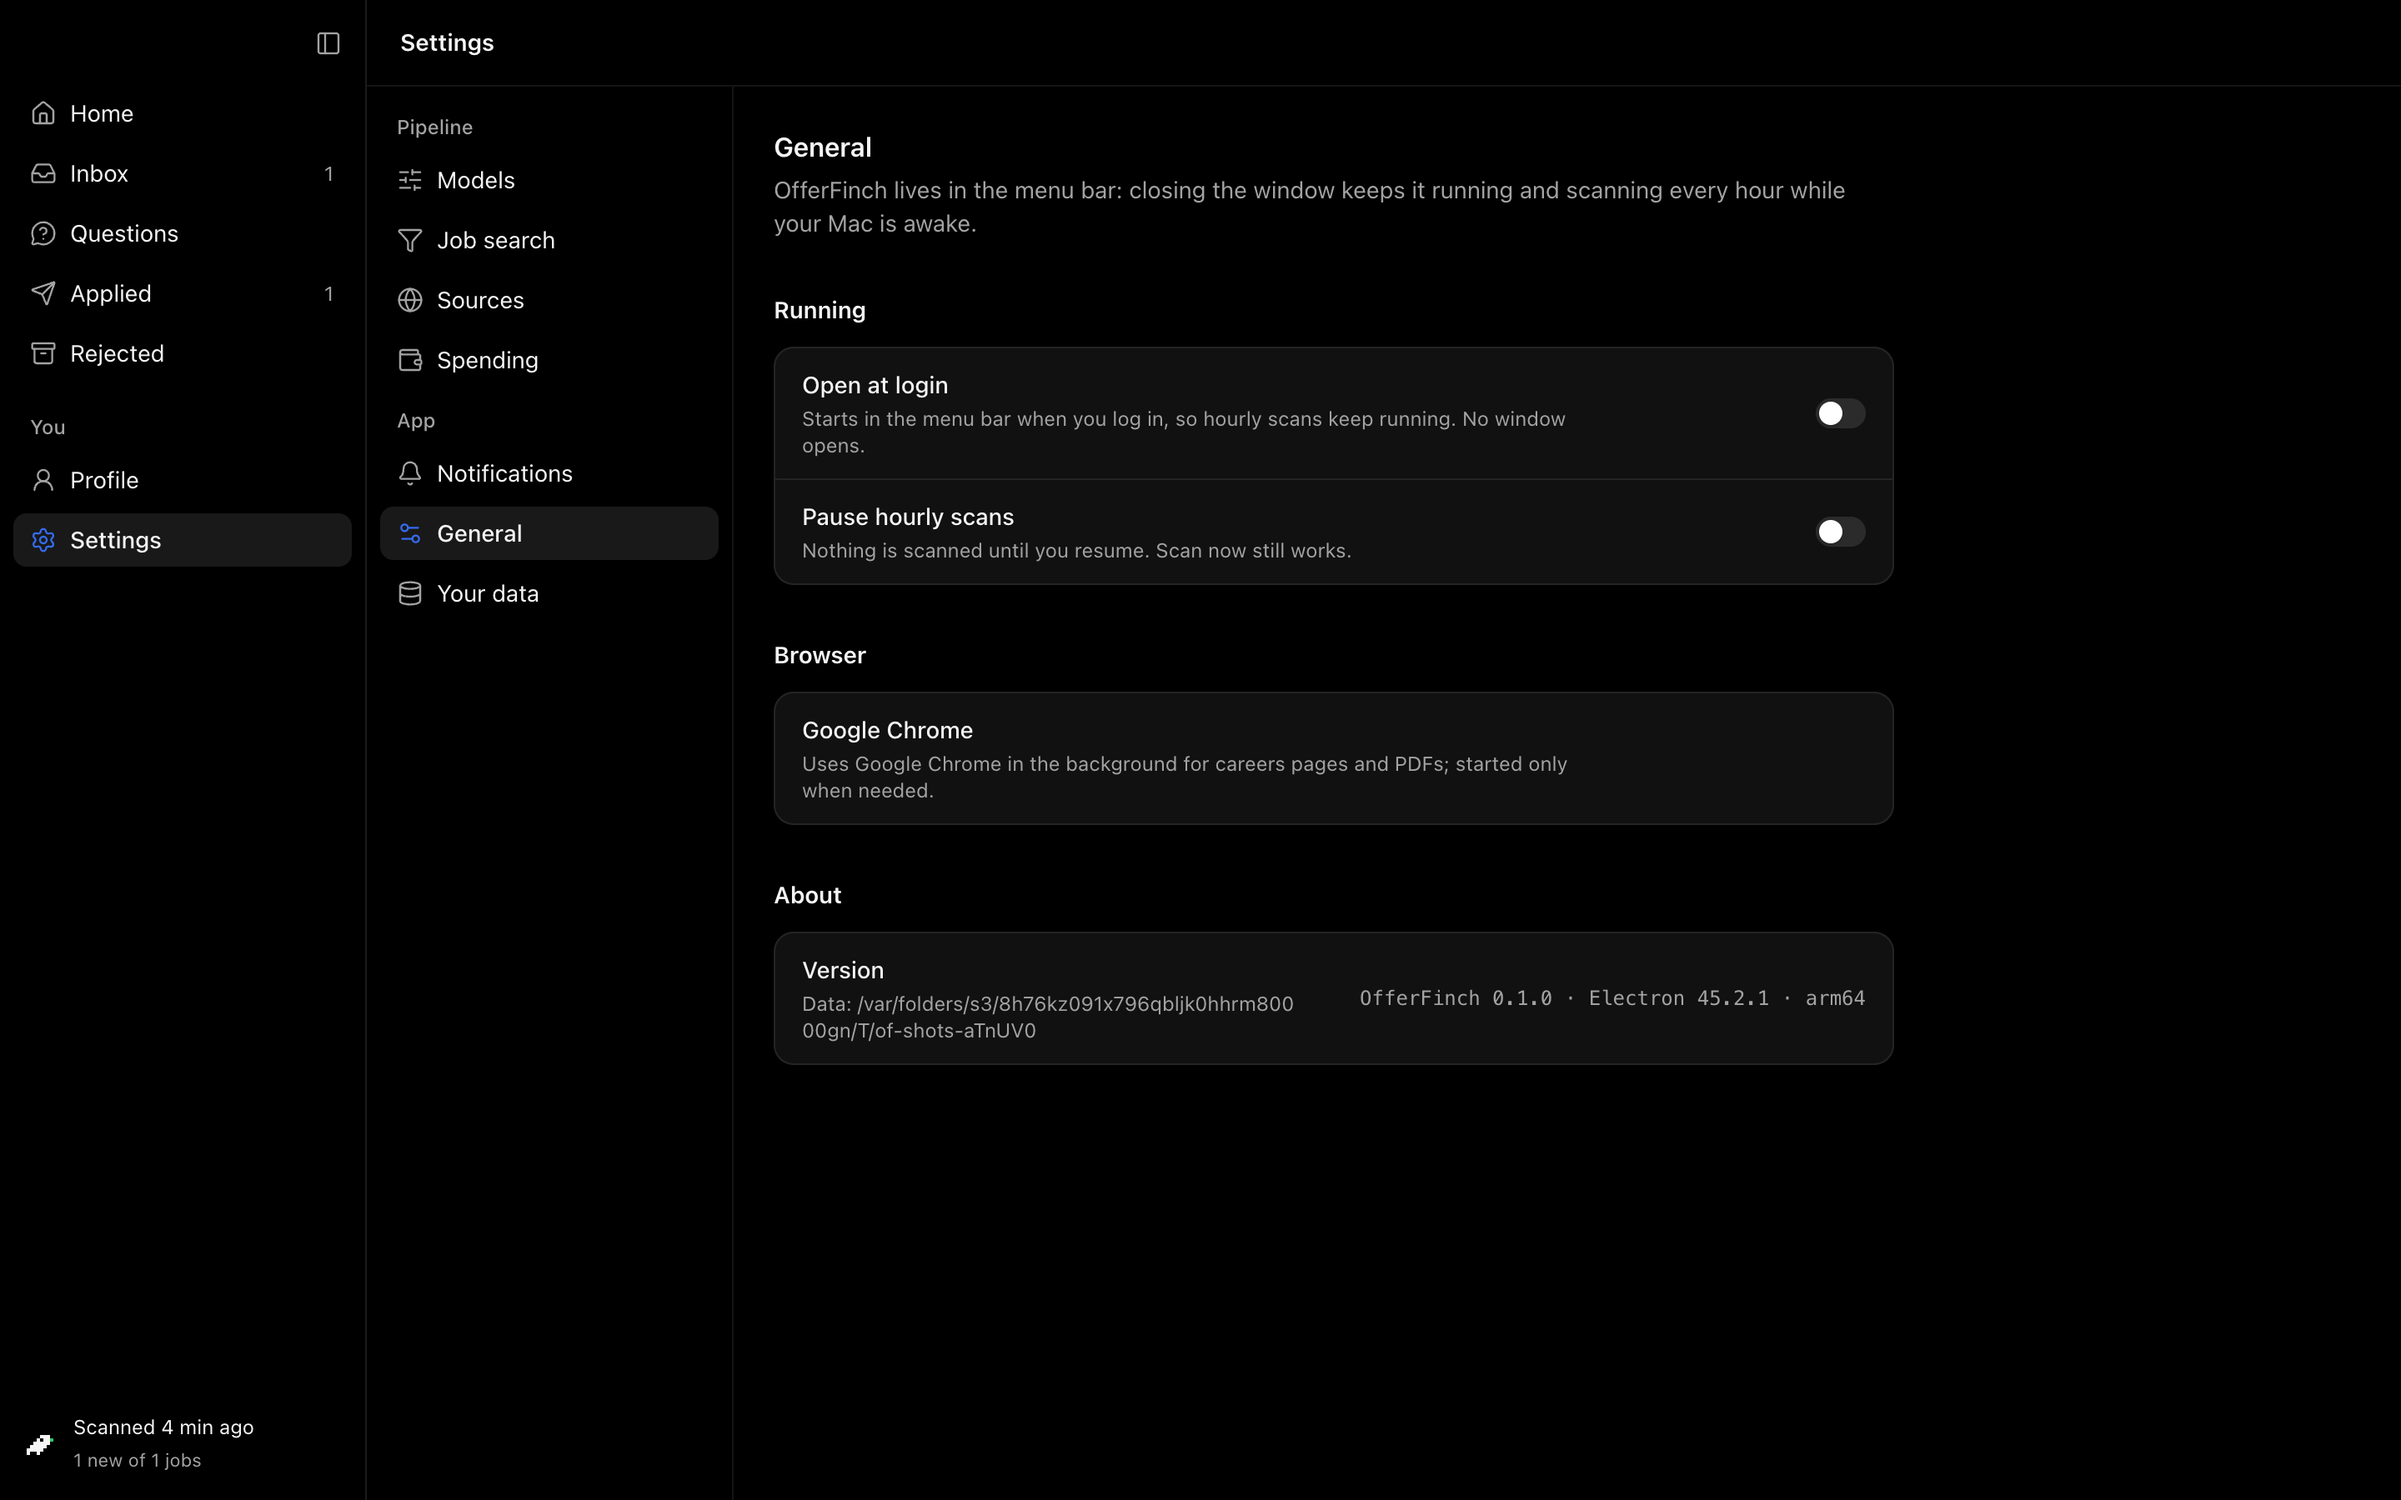
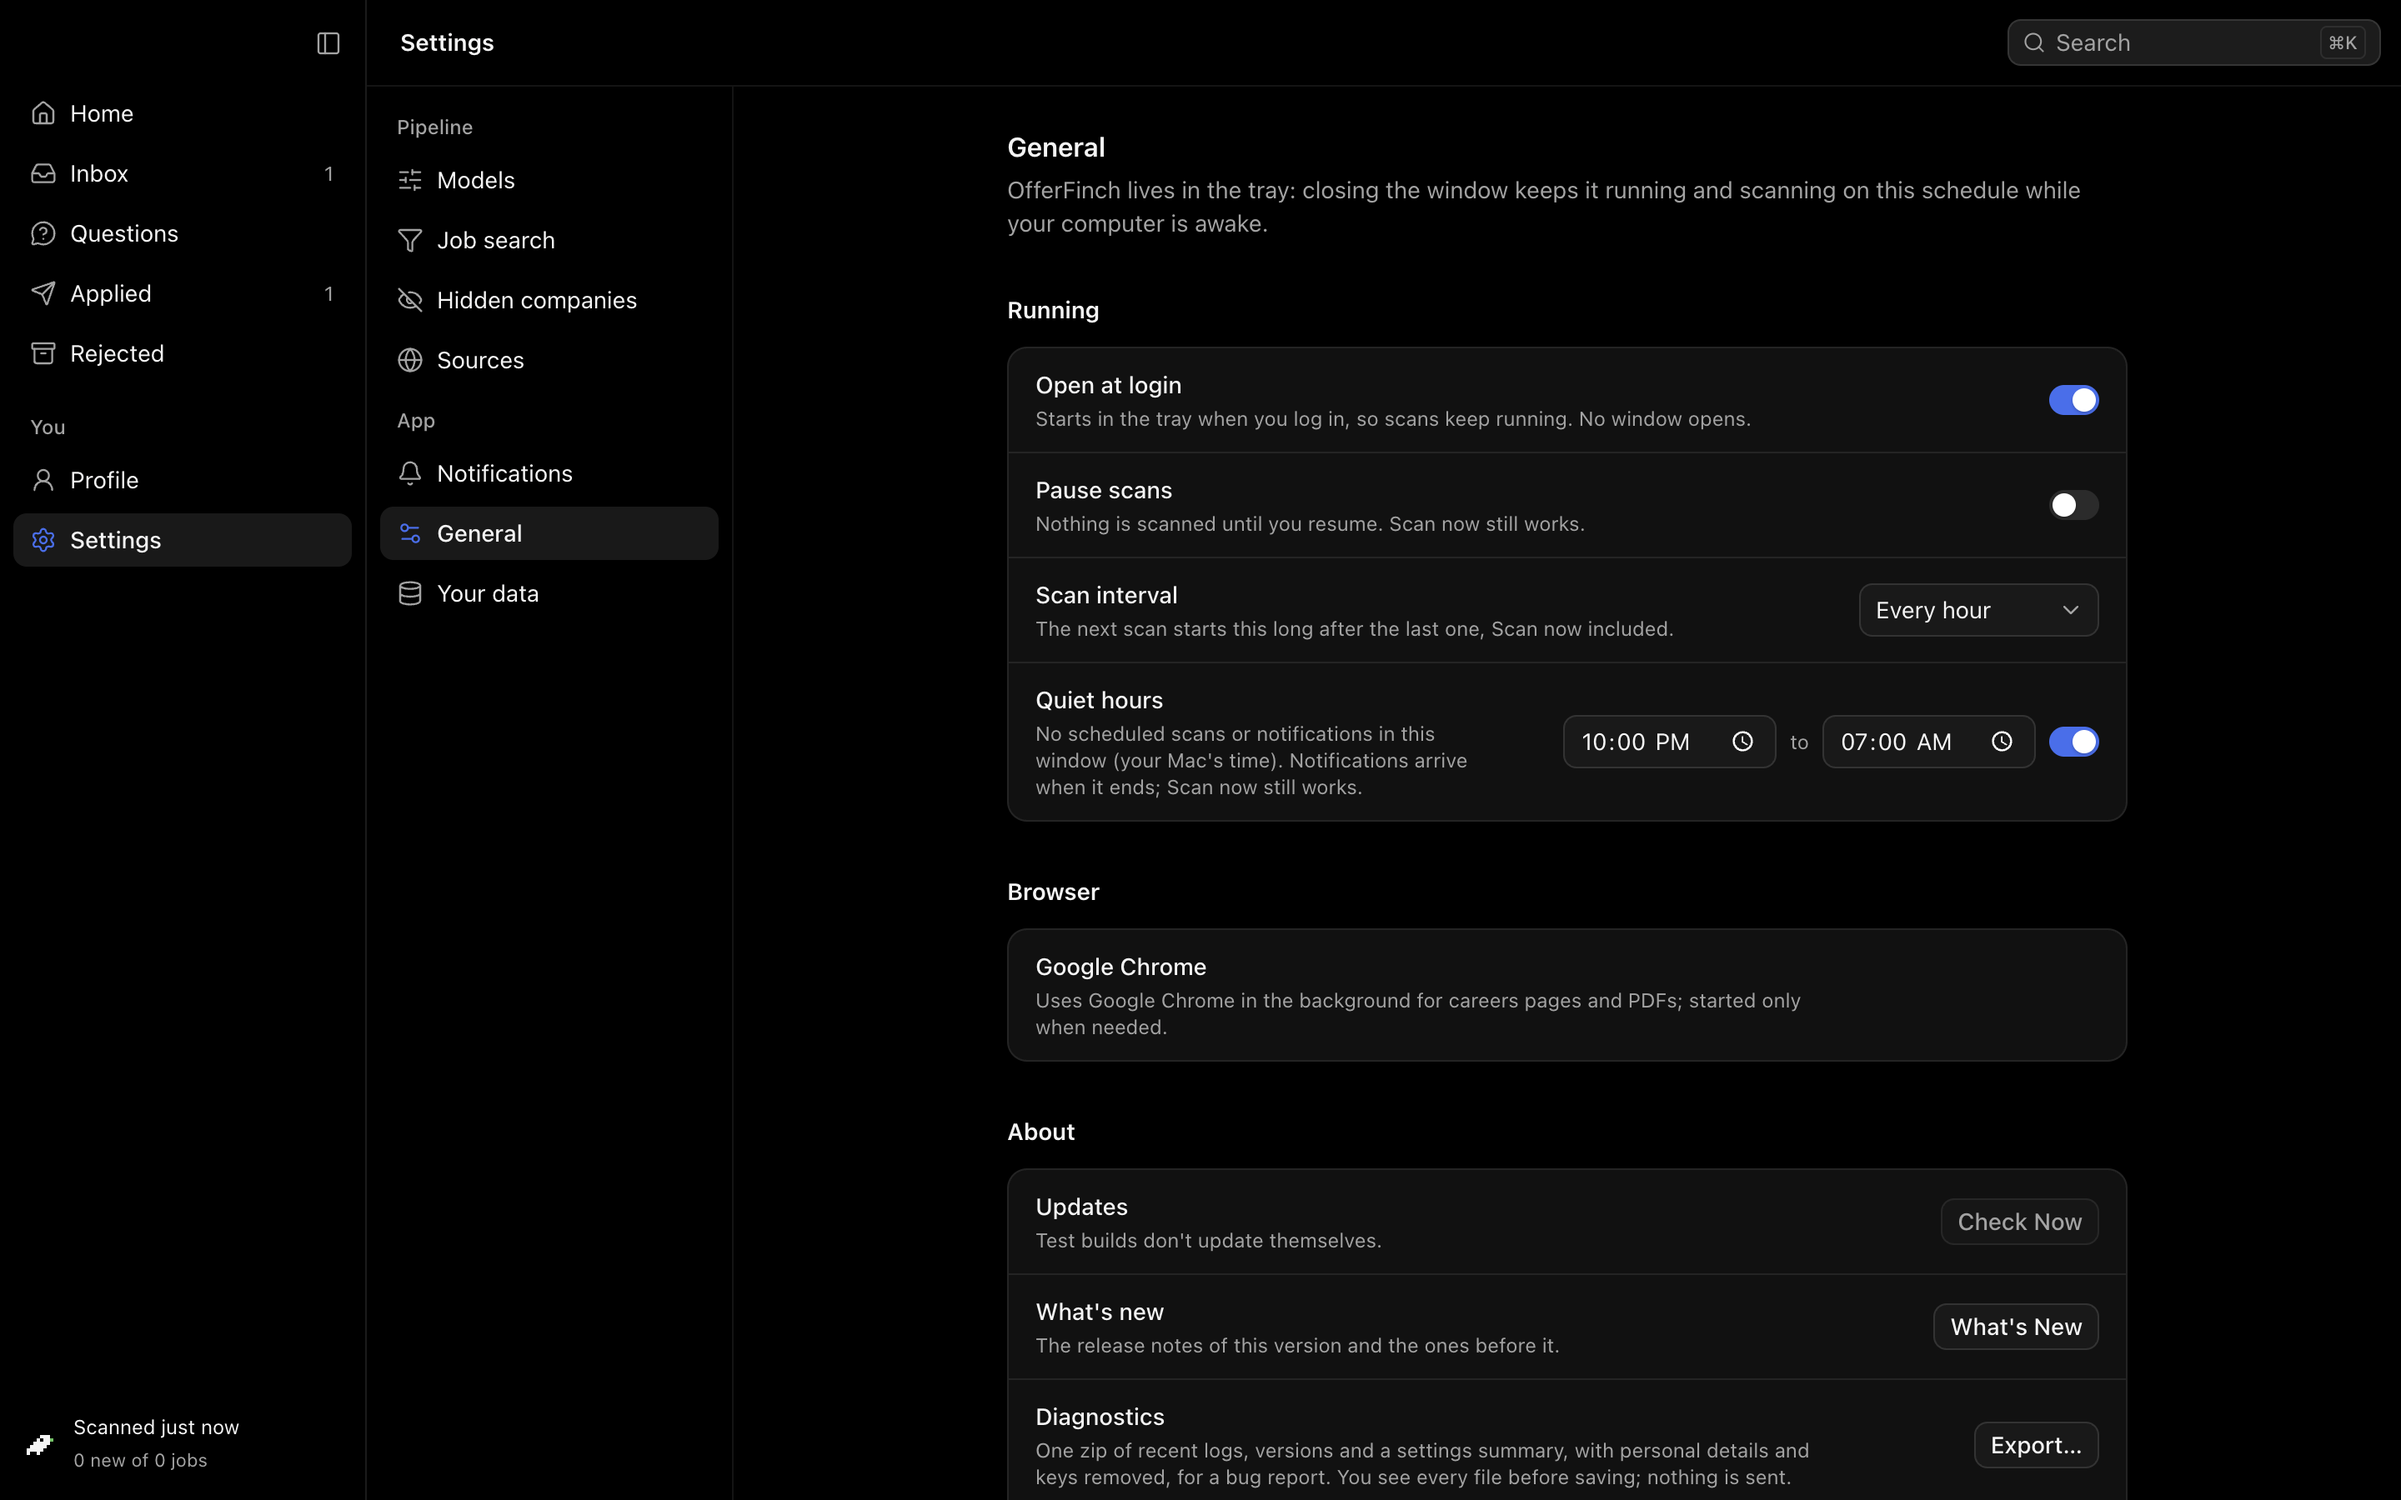
fix(settings): room for 12-hour quiet-hours times; General screenshots

diff --git a/apps/desktop/src/renderer/components/desktop/general.tsx b/apps/desktop/src/renderer/components/desktop/general.tsx
@@ -263,7 +263,7 @@ function ScanScheduleRows() {
 				label="Quiet hours"
 				hint={
 					quiet?.enabled
-						? "No scheduled scans and no notifications in this window (your Mac's time). Notifications wait and arrive when it ends; Scan now still works."
+						? "No scheduled scans or notifications in this window (your Mac's time). Notifications arrive when it ends; Scan now still works."
 						: "A nightly window with no scheduled scans and no notifications."
 				}
 			>
@@ -272,7 +272,7 @@ function ScanScheduleRows() {
 						<Input
 							type="time"
 							aria-label="Quiet hours start"
-							className="w-24"
+							className="w-32"
 							value={quiet.start}
 							onChange={(e) => {
 								if (e.target.value) saveQuiet({ start: e.target.value });
@@ -283,7 +283,7 @@ function ScanScheduleRows() {
 						<Input
 							type="time"
 							aria-label="Quiet hours end"
-							className="w-24"
+							className="w-32"
 							value={quiet.end}
 							onChange={(e) => {
 								if (e.target.value) saveQuiet({ end: e.target.value });
